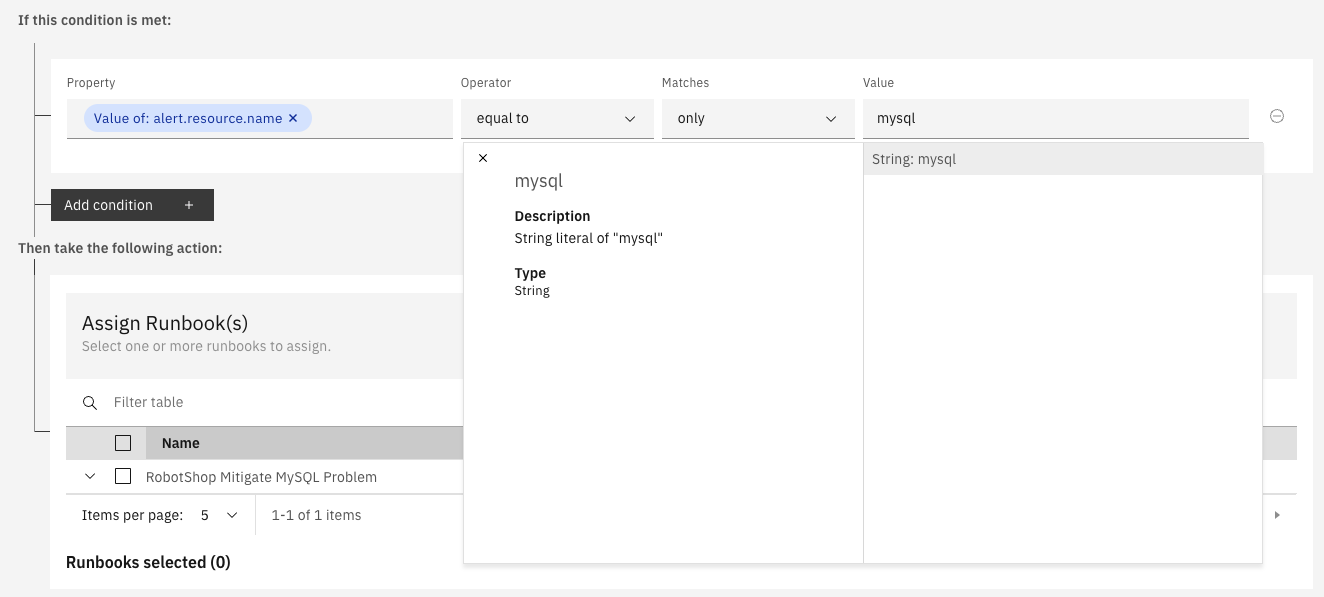
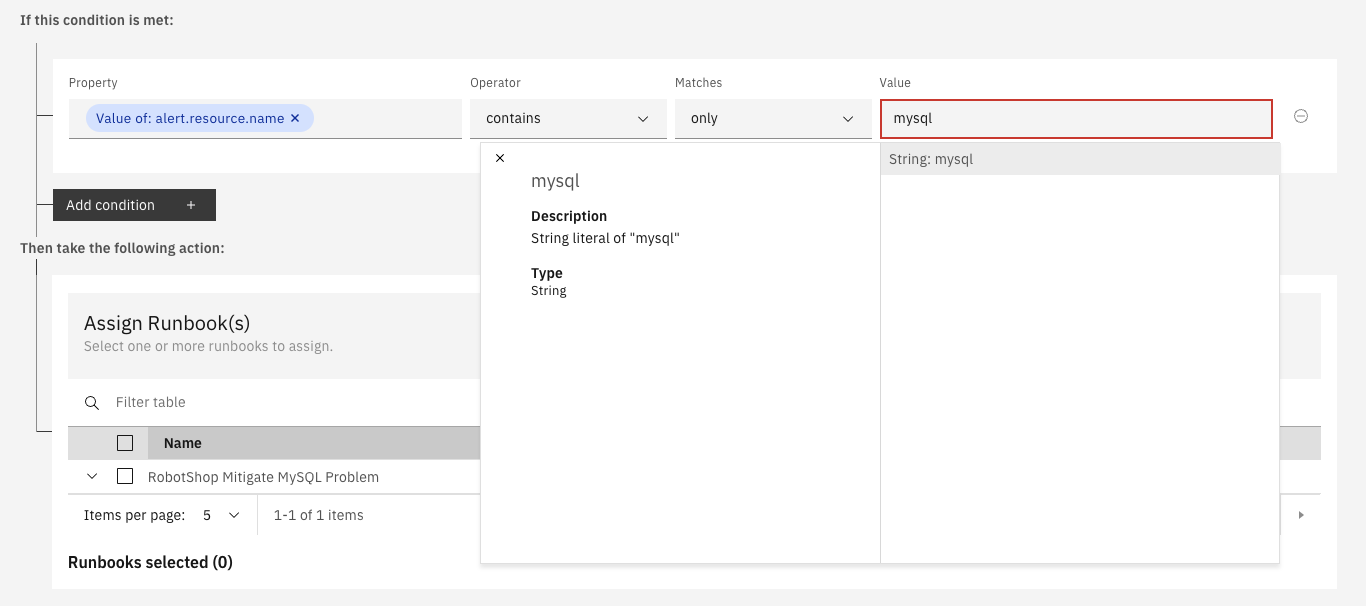
20221104-1529

diff --git a/themes/hugo-geekdoc/layouts/partials/page-header.html b/themes/hugo-geekdoc/layouts/partials/page-header.html
@@ -43,26 +43,15 @@
     </div>
   {{ end }}
 
-  <div>
-    <div class="prev-next">
 
-      {{ if .PrevPage }}
-      <a class="link-reverse" href="{{ .PrevPage.Permalink }}?ref=footer">Next: {{ .PrevPage.Title | truncate 50 "..."}}
-        »</a>
-      {{ end }}
-    </div>
+
+
+</div>
+<div style="margin-left: auto; margin-right: 0;float: right;">
+  <div class="prev-next">
+    {{ if .PrevPage }}
+    <a class="link-reverse" href="{{ .PrevPage.Permalink }}?ref=footer">Next: {{ .PrevPage.Title | truncate 50 "..."}}
+      »</a>
+    {{ end }}
   </div>
-
-  {{ if $showEdit }}
-    <div>
-      <span class="editpage">
-        <svg class="gdoc-icon gdoc_code"><use xlink:href="#gdoc_code"></use></svg>
-        <a
-          href="{{ $geekdocRepo }}/{{ path.Join $geekdocEditPath ($.Scratch.Get "geekdocFilePath") }}"
-        >
-          {{ i18n "edit_page" }}
-        </a>
-      </span>
-    </div>
-  {{ end }}
 </div>

diff --git a/themes/hugo-geekdoc/static/custom.css b/themes/hugo-geekdoc/static/custom.css
@@ -6,7 +6,7 @@
 
 .container {
     width: 100% !important;
-    max-width: 80% !important;
+    max-width: 90% !important;
 }
 
 .gdoc-header {
@@ -19,12 +19,15 @@
     font-size: 1rem !important;
     font-weight: bold;
     color: rgb(255, 255, 255) !important;
-    background-color: rgb(0, 1, 43) !important;
+    background-color: rgb(1, 86, 197) !important;
     padding: 15px;
     border-radius: 0.35rem !important;
     border-color: rgb(1, 19, 78) !important;
     border-style: solid;
     border-width: 1px;
+    margin-left: auto; 
+    margin-right: auto;
+    display: block;
 }
 
 .gdoc-markdown pre, .gdoc-markdown code {

diff --git a/themes/hugo-geekdoc/layouts/_default/single.html b/themes/hugo-geekdoc/layouts/_default/single.html
@@ -5,6 +5,15 @@
 <article class="gdoc-markdown gdoc-markdown__align--{{ default "left" (.Page.Params.GeekdocAlign | lower) }}">
   <!-- <h1>{{ partial "utils/title" . }}</h1> -->
   {{ partial "utils/content" . }}
+  <div style="float: right; margin-top: 100px; ">
+
+      <div class="prev-next">
+      {{ if .PrevPage }}
+      <a class="link-reverse" href="{{ .PrevPage.Permalink }}?ref=footer">Next: {{ .PrevPage.Title | truncate 50 "..."}}
+        »</a>
+      {{ end }}
+    </div>
+  </div>
 </article>
 
 

diff --git a/content/Configure AI Manager/configure_aimanager_08.md b/content/Configure AI Manager/configure_aimanager_08.md
@@ -1,0 +1,122 @@
+---
+title: "Configure Certificates"
+date: 2022-11-03T10:57:46+01:00
+weight: 59
+---
+
+# Create valid Ingress Certificates
+
+## Patch NetworkPolicy
+
+1. Run the following command to patch the NetworkPolicy
+
+    ```bash
+    export WAIOPS_NAMESPACE=$(oc get po -A|grep aiops-orchestrator-controller |awk '{print$1}')
+
+    cat <<EOF | oc apply -f -
+    apiVersion: networking.k8s.io/v1
+    kind: NetworkPolicy
+    metadata:
+      name: allow-all-egress-and-ingress
+      annotations:
+        argocd.argoproj.io/sync-wave: "3"
+      namespace: $WAIOPS_NAMESPACE
+    spec:
+      egress:
+      - {}
+      ingress:
+      - {}
+      podSelector: {}
+      policyTypes:
+      - Egress
+      - Ingress
+    EOF
+    ```
+
+
+1. Run the following command to patch AutomationUIConfig Certificates
+
+    ```bash
+    export WAIOPS_NAMESPACE=$(oc get po -A|grep aiops-orchestrator-controller |awk '{print$1}')
+
+    oc project $WAIOPS_NAMESPACE
+    NAMESPACE=$WAIOPS_NAMESPACE
+    AUTO_UI_INSTANCE=$(oc get AutomationUIConfig -n $NAMESPACE --no-headers -o custom-columns=":metadata.name")
+    IAF_STORAGE=$(oc get AutomationUIConfig -n $NAMESPACE -o jsonpath='{ .items[*].spec.zenService.storageClass }')
+    ZEN_STORAGE=$(oc get AutomationUIConfig -n $NAMESPACE -o jsonpath='{ .items[*].spec.zenService.zenCoreMetaDbStorageClass }')
+
+    echo "AUTO_UI_INSTANCE:   "$AUTO_UI_INSTANCE
+    echo "IAF_STORAGE:        "$IAF_STORAGE
+    echo "ZEN_STORAGE:        "$ZEN_STORAGE
+
+    oc get -n $NAMESPACE AutomationUIConfig $AUTO_UI_INSTANCE --ignore-not-found -o yaml > /tmp/AutomationUIConfig-backup-$(date +%Y%m%d-%H%M).yaml
+    
+    if [[ ! $IAF_STORAGE == "" ]];
+    then
+    oc delete -n $NAMESPACE AutomationUIConfig $AUTO_UI_INSTANCE
+
+    cat <<EOF | oc apply -f -
+    apiVersion: core.automation.ibm.com/v1beta1
+    kind: AutomationUIConfig
+    metadata:
+      name: $AUTO_UI_INSTANCE
+      namespace: $NAMESPACE
+    spec:
+      description: AutomationUIConfig for cp4waiops
+      license:
+        accept: true
+      version: v1.3
+      zen: true
+      zenService:
+        iamIntegration: true
+        storageClass: $IAF_STORAGE
+        zenCoreMetaDbStorageClass: $ZEN_STORAGE
+      tls:
+        caSecret:
+          key: ca.crt
+          secretName: external-tls-secret
+        certificateSecret:
+          secretName: external-tls-secret
+    EOF
+    else
+      echo "Couldn't get IAF_STORAGE"
+    fi
+    ```
+
+
+1. Run the following command to patch the Ingress Certificates
+
+    ```bash
+    export WAIOPS_NAMESPACE=$(oc get po -A|grep aiops-orchestrator-controller |awk '{print$1}')
+
+    ingress_pod=$(oc get secrets -n openshift-ingress | grep tls |grep -v router-token-| grep -v router-metrics-certs-default | awk '{print $1}')
+    oc get secret -n openshift-ingress ${ingress_pod} -o jsonpath='{.data.tls\.crt}'  | base64 -d > /tmp/cert.crt
+    oc get secret -n openshift-ingress ${ingress_pod} -o jsonpath='{.data.tls\.key}' | base64 -d > /tmp/cert.key
+    oc get secret -n $WAIOPS_NAMESPACE iaf-system-automationui-aui-zen-ca -o jsonpath='{.data.ca\.crt}' | base64 -d > /tmp/ca.crt
+
+    oc get secret -n $WAIOPS_NAMESPACE external-tls-secret --ignore-not-found -o yaml > /tmp/external-tls-secret-backup-$(date +%Y%m%d-%H%M).yaml
+    oc delete secret -n $WAIOPS_NAMESPACE --ignore-not-found external-tls-secret
+    oc create secret generic -n $WAIOPS_NAMESPACE external-tls-secret --from-file=ca.crt=/tmp/ca.crt --from-file=cert.crt=/tmp/cert.crt --from-file=cert.key=/tmp/cert.key --dry-run=client -o yaml | oc apply -f -
+    REPLICAS=2
+    oc scale Deployment/ibm-nginx --replicas=0
+    sleep 3
+    oc scale Deployment/ibm-nginx --replicas=${REPLICAS}
+
+    ```
+
+
+1. To check that the nginx Pods are back up, run the following:
+
+```bash
+export WAIOPS_NAMESPACE=$(oc get po -A|grep aiops-orchestrator-controller |awk '{print$1}')
+while :; do clear; echo "Checking..."; echo "Exit with Ctrl-C"; oc get po -n $WAIOPS_NAMESPACE | grep nginx|grep -v ibm-nginx-tester|grep -v setup-nginx-job |grep "1/1"; sleep 2; done
+```
+
+This will list the Pods that are Ready.
+
+Wait until you get two pods with `1/1` status
+
+```yaml
+ibm-nginx-xxxxx-xxx                                       1/1     Running     0               4h9m
+ibm-nginx-xxxxx-xxx                                       1/1     Running     0               4h9m
+

diff --git a/content/Configure AI Manager/configure_aimanager_04.md b/content/Configure AI Manager/configure_aimanager_04.md
@@ -7,14 +7,14 @@ weight: 55
 # Configure ELK
 
 
-1. In the `AI Manager` "Hamburger" Menu select `Define`/`Data and tool integrations`
+1. In the `AI Manager` "Hamburger" Menu select `Define`/`Data and tool connections`
 1. Click `Add connection`
 1. Under `ELK`, click on `Add connection`
 1. Click `Connect`
 1. Name it `ELK`
 
 
-1. 🔎 Get the data from your configuration info - section `2.2 Configure asdfdsafdsa` 
+1. 🔎 Get the data from your configuration info - section `2.2 Configure ELK` 
 
     ```bash
     ./tools/11_fzth/get_configuration_info.sh
@@ -28,11 +28,10 @@ weight: 55
 
 	```yaml
 	ELK service URL: 		from script
+	Kibana URL: 			from script
 	Authentication type: 		Token
 	Token: 				from script
 
-	Kibana URL: 			from script
-	Kibana port: 			443
 	Mapping:
 		{ 
 		"codec": "elk",
@@ -42,6 +41,8 @@ weight: 55
 		"rolling_time": 10,
 		"timestamp_field": "@timestamp"
 		}
+	TimeZone:				set to your Timezone	
+	Kibana port: 			443
 	```
 
 1. Click `Test connection`. You should get `Connection successful!`
@@ -56,7 +57,6 @@ weight: 55
 
 
     ```yaml
-	Mapping: 
 	{ 
 	"codec": "elk",
 	"message_field": "message",

diff --git a/content/Installing AI Manager/install_aimanager_01.md b/content/Installing AI Manager/install_aimanager_01.md
@@ -17,11 +17,7 @@ weight: 32
 Run the following:
 	
 ```bash
-oc get po -n cp4waiops | grep -v Completed | grep -v Error |grep "0/"
-	
-oc get po -n cp4waiops | grep -v Completed | grep -v Error |grep -v "0/" |wc -l| tr -d ' '
-
-oc get po -n cp4waiops | grep -v Completed | grep -v Error |grep "0/" |wc -l| tr -d ' '                                                  
+while :; do clear; echo "Checking..."; echo "Exit with Ctrl-C"; oc get po -n cp4waiops | grep -v Completed | grep -v Error |grep "0/"; oc get po -n cp4waiops | grep -v Completed | grep -v Error |grep -v "0/" |wc -l| tr -d ' '; oc get po -n cp4waiops | grep -v Completed | grep -v Error |grep "0/" |wc -l| tr -d ' '; sleep 2; done
 ```
 
 This will list the Pods that are not Ready yet.
@@ -48,4 +44,4 @@ This will list the Pods that are not Ready yet.
 
 This allows you to follow along the progress of the installation.
 
-🚀 **When done** you should have 129 Pods in Running status and all Pods should be `1/1, 2/2, 3/3, ...`
+🚀 **When done** you should have 126 Pods in Running status and all Pods should be `1/1, 2/2, 3/3, ...`

diff --git a/_STUFF/FROM_ZERO_TO_HERO.md b/_STUFF/FROM_ZERO_TO_HERO.md
@@ -1262,7 +1262,7 @@ After successful installation, the Playbook creates a file `./LOGINS.txt` in you
 > 
 > This gives you all the parameters needed for creating the connection.
   
-* In the `AI Manager` "Hamburger" Menu select `Operate`/`Data and tool integrations`
+* In the `AI Manager` "Hamburger" Menu select `Operate`/`Data and tool connections`
 * Click `Add connection`
 * Under `Netcool`, click on `Add connection`
 * Click `Connect`
@@ -1558,7 +1558,7 @@ In the Slack App:
 
 In the AI Manager (CP4WAIOPS) 
 
-1. In the `AI Manager` "Hamburger" Menu select `Define`/`Data and tool integrations`
+1. In the `AI Manager` "Hamburger" Menu select `Define`/`Data and tool connections`
 1. Click `Add connection`
  
 	![K8s CNI](/cp4waiops-training/pics/doc14.png)
@@ -1591,7 +1591,7 @@ In the AI Manager (CP4WAIOPS)
 
 In the AI Manager (CP4WAIOPS) 
 
-1. Go to `Data and tool integrations`
+1. Go to `Data and tool connections`
 2. Under `Slack` click on `1 integration`
 3. Copy out the URL
 

diff --git a/content/Installing Training resources/install_aimanager_02.md b/content/Installing Training resources/install_aimanager_02.md
@@ -9,7 +9,7 @@ weight: 43
 
 > 💡 This takes some time depending on what region of ROKS you have chosen.
 
-> ❗ Wait **up to 30 minutes** for the installation to complete. The next step explains how to follow the installation progress.
+> ❗ Wait **up to 15-20 minutes** for the installation to complete. The next step explains how to follow the installation progress.
 
 You can follow along the process by running:
 	

diff --git a/content/Configure Slack/5_slack_url_public.md b/content/Configure Slack/5_slack_url_public.md
@@ -1,7 +1,7 @@
 ---
 title: "Get the Integration URL"
 date: 2022-11-03T10:57:46+01:00
-weight: 85
+weight: 185
 ---
 
 # Get the Integration URL (Public Cloud (ROKS, ...))
@@ -11,7 +11,7 @@ weight: 85
 
 ### In AI Manager:
 
-1. Go to `Data and tool integrations`
+1. Go to `Data and tool connections`
 2. Under `Slack` click on `1 integration`
 3. Copy out the URL
 

diff --git a/content/Configure AI Manager/configure_aimanager_06.md b/content/Configure AI Manager/configure_aimanager_06.md
@@ -34,7 +34,7 @@ weight: 57
 
 	![K8s CNI](/cp4waiops-training/pics/35_runbook.png)
 
-
+1. Under `Operator` select `contains`
 1. Click in field  `Value`
 1. Type `mysql`
 1. Select `String: mysql`
@@ -48,6 +48,7 @@ weight: 57
 
 	![K8s CNI](/cp4waiops-training/pics/37_runbook.png)
 
+1. Click `Create Policy`
 
 1. Your list of Policies should now look like this
 

diff --git a/content/Configure Slack/4_slack_integrate.md b/content/Configure Slack/4_slack_integrate.md
@@ -1,7 +1,7 @@
 ---
 title: "Integrate"
 date: 2022-11-03T10:57:46+01:00
-weight: 84
+weight: 184
 ---
 
 # Integrate Your Slack App
@@ -15,7 +15,7 @@ weight: 84
 
 ### In AI Manager:
 
-1. Go to `Data and tool integrations`
+1. Go to `Data and tool connections`
 5. Under `Slack` select `Add integration`
 6. Name it "Slack"
 7. Paste the `Signing Secret` from above

diff --git a/content/Configure AI Manager/configure_aimanager_05.md b/content/Configure AI Manager/configure_aimanager_05.md
@@ -9,7 +9,7 @@ weight: 56
 # Create Ansible Tower Connection
 
 
-1. In the `AI Manager` "Hamburger" Menu select `Define`/`Data and tool integrations`
+1. In the `AI Manager` "Hamburger" Menu select `Define`/`Data and tool connections`
 1. Click `Add connection`
 1. Under `Ansible Automation Controller`, click on `Add connection`
 1. Click `Connect`
